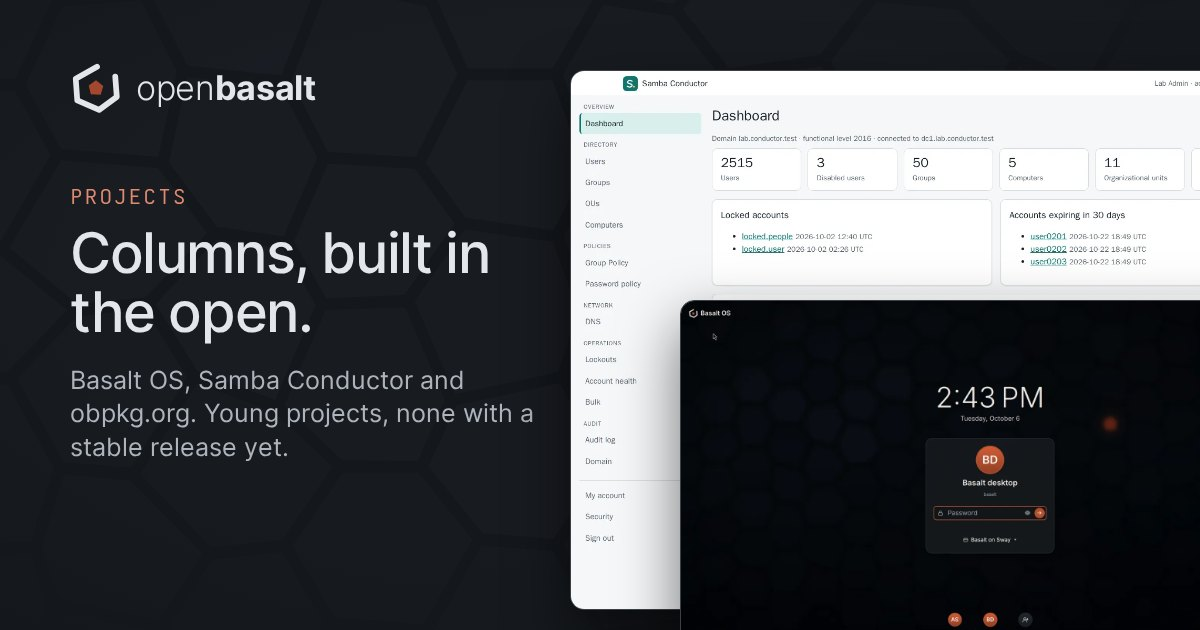
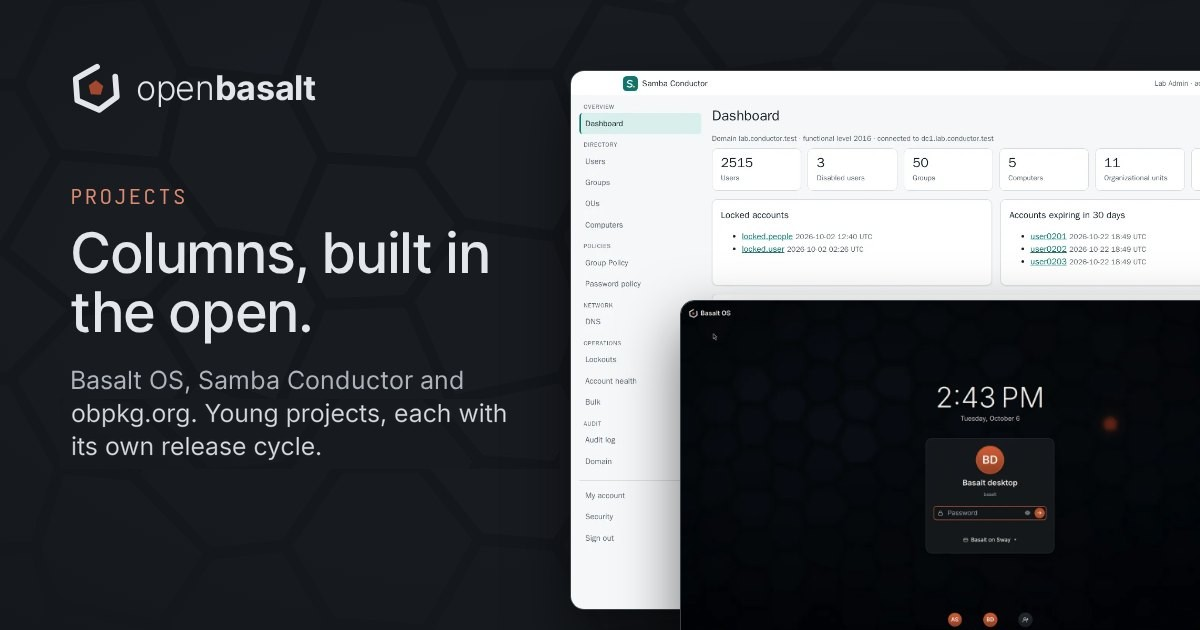
Samba Conductor 0.2.0: released status, install pointers, containers
The project page still said pre-release with no tagged version. Samba
Conductor has shipped 0.1.0, 0.1.1 and 0.2.0, with signed packages in the
stable channels on obpkg.org and signed container images (latest 0.2.0).

- Project page: status banner and section with the releases, release notes
  and verification links, arm64 for APT, conductor-provisioner, a container
  images section, nine repositories, JSON-LD status and version.
- Home, projects and gallery: drop "none has a stable release yet" and the
  pre-release tags for Samba Conductor.
- OG images of the project page and the projects index updated, sitemap
  lastmod bumped.

Claude-Session: https://claude.ai/code/session_01UnMqRceEUND6tegqqQKH1W

Changed region(s): [[0.0617, 0.6333, 0.4317, 0.7238]]

diff --git a/projects/samba-conductor/index.html b/projects/samba-conductor/index.html
@@ -4,7 +4,7 @@
     <meta charset="utf-8" />
     <meta name="viewport" content="width=device-width, initial-scale=1" />
     <title>Samba Conductor: web console for Samba Active Directory, OpenBasalt</title>
-    <meta name="description" content="Samba Conductor runs a Samba Active Directory domain from a web console, with single sign-on through OpenID Connect and SAML, Google Workspace sync, self-service and branding. Open source, Apache-2.0. Pre-release." />
+    <meta name="description" content="Samba Conductor runs a Samba Active Directory domain from a web console, with single sign-on through OpenID Connect and SAML, Google Workspace sync, self-service and branding. Open source, Apache-2.0. Latest release 0.2.0." />
     <link rel="canonical" href="https://openbasalt.org/projects/samba-conductor/" />
     <meta name="theme-color" content="#f6f5f2" media="(prefers-color-scheme: light)" />
     <meta name="theme-color" content="#14171b" media="(prefers-color-scheme: dark)" />
@@ -17,19 +17,19 @@
     <meta property="og:site_name" content="OpenBasalt" />
     <meta property="og:locale" content="en_US" />
     <meta property="og:title" content="Samba Conductor: Samba Active Directory, run from a web console" />
-    <meta property="og:description" content="Administration, single sign-on with OIDC and SAML, Google Workspace sync and self-service for Samba AD. Open source, pre-release, packages for Debian, Ubuntu, Fedora and Basalt OS." />
+    <meta property="og:description" content="Administration, single sign-on with OIDC and SAML, Google Workspace sync and self-service for Samba AD. Open source, release 0.2.0, signed packages for Debian, Ubuntu, Fedora and Basalt OS, and container images." />
     <meta property="og:url" content="https://openbasalt.org/projects/samba-conductor/" />
-    <meta property="og:image" content="https://openbasalt.org/assets/projects/samba-conductor/og.jpg" />
+    <meta property="og:image" content="https://openbasalt.org/assets/projects/samba-conductor/og.jpg?v=2" />
     <meta property="og:image:type" content="image/jpeg" />
     <meta property="og:image:width" content="1200" />
     <meta property="og:image:height" content="630" />
-    <meta property="og:image:alt" content="Samba Conductor, an OpenBasalt project: the dashboard and a change preview of a test domain, marked pre-release." />
+    <meta property="og:image:alt" content="Samba Conductor, an OpenBasalt project: the dashboard and a change preview of a test domain, marked release 0.2.0." />
     <meta name="twitter:card" content="summary_large_image" />
     <meta name="twitter:site" content="@openbasalt" />
     <meta name="twitter:title" content="Samba Conductor: Samba Active Directory, run from a web console" />
-    <meta name="twitter:description" content="Administration, single sign-on with OIDC and SAML, Google Workspace sync and self-service for Samba AD. Open source, pre-release, packages for Debian, Ubuntu, Fedora and Basalt OS." />
-    <meta name="twitter:image" content="https://openbasalt.org/assets/projects/samba-conductor/og.jpg" />
-    <meta name="twitter:image:alt" content="Samba Conductor, an OpenBasalt project: the dashboard and a change preview of a test domain, marked pre-release." />
+    <meta name="twitter:description" content="Administration, single sign-on with OIDC and SAML, Google Workspace sync and self-service for Samba AD. Open source, release 0.2.0, signed packages for Debian, Ubuntu, Fedora and Basalt OS, and container images." />
+    <meta name="twitter:image" content="https://openbasalt.org/assets/projects/samba-conductor/og.jpg?v=2" />
+    <meta name="twitter:image:alt" content="Samba Conductor, an OpenBasalt project: the dashboard and a change preview of a test domain, marked release 0.2.0." />
 
     <link rel="stylesheet" href="../../assets/site.css?v=5" />
     <!-- Umami, self-hosted. No cookies, no cross-site identifier, no personal
@@ -55,7 +55,8 @@
       "url": "https://openbasalt.org/projects/samba-conductor/",
       "applicationCategory": "BusinessApplication",
       "applicationSubCategory": "Directory administration",
-      "creativeWorkStatus": "Pre-release",
+      "creativeWorkStatus": "Released",
+      "softwareVersion": "0.2.0",
       "operatingSystem": "Linux (Debian 13, Ubuntu 24.04 and 26.04, Fedora 44, Basalt OS)",
       "license": "https://www.apache.org/licenses/LICENSE-2.0",
       "isAccessibleForFree": true,
@@ -65,7 +66,7 @@
         "priceCurrency": "USD"
       },
       "installUrl": "https://openbasalt.org/projects/samba-conductor/#install",
-      "image": "https://openbasalt.org/assets/projects/samba-conductor/og.jpg",
+      "image": "https://openbasalt.org/assets/projects/samba-conductor/og.jpg?v=2",
       "screenshot": "https://openbasalt.org/assets/gallery/sc-dashboard-1600.webp",
       "sameAs": [
         "https://github.com/openbasalt/samba-conductor"
@@ -116,11 +117,15 @@
         <div class="preview-banner" role="note">
           <span class="status-dot" aria-hidden="true"></span>
           <div>
-            <p>Pre-release, in its validation phase. There is no tagged version yet.</p>
+            <p>Released. The latest release is 0.2.0, of 2026-10-20.</p>
             <p>
-              Every part is tested end to end in a lab with two domain controllers, and packages are
-              published for testing. Try it on a test domain first, and expect changes before the
-              first release.
+              Samba Conductor is a young project. Every release is tested end to end in a lab with
+              two domain controllers, and its packages and container images are signed. Try it on a
+              test domain first, before a domain people depend on.
+            </p>
+            <p>
+              <a href="https://github.com/openbasalt/samba-conductor/releases">Release notes</a>
+              and <a href="#install">install</a>.
             </p>
           </div>
         </div>
@@ -311,8 +316,27 @@
       <section id="status" class="section" aria-labelledby="status-title">
         <div class="wrap">
           <p class="eyebrow">Status</p>
-          <h2 id="status-title">Pre-release, being validated.</h2>
+          <h2 id="status-title">Released, and still young.</h2>
           <div class="status-grid">
+            <div class="prose">
+              <p class="eyebrow">Releases</p>
+              <ul>
+                <li>
+                  0.2.0, 2026-10-20: conductor and conductor-sync 0.2.0, the new
+                  <a href="https://github.com/openbasalt/samba-conductor-provisioner">conductor-provisioner</a>
+                  0.1.0 for invitations, password reset by e-mail and the Google-first mode, and six
+                  container images.
+                </li>
+                <li>0.1.1: a security update of conductor and conductor-idp.</li>
+                <li>0.1.0, 2026-10-09: the first release.</li>
+              </ul>
+              <p>
+                Each release is a signed GitHub release with packages, SBOMs and signed checksums, also
+                published in the stable channels on obpkg.org. See the
+                <a href="https://github.com/openbasalt/samba-conductor/releases">release notes</a> and
+                <a href="https://github.com/openbasalt/samba-conductor-docs/blob/main/verifying-releases.md">how to verify a release</a>.
+              </p>
+            </div>
             <div class="prose">
               <p class="eyebrow">Checked in the lab</p>
               <ul>
@@ -321,17 +345,15 @@
                 <li>Single sign-on with an independent OpenID Connect client, Grafana and a SAML service provider.</li>
                 <li>Install, upgrade and removal of the packages, including on Basalt OS with SELinux enforcing.</li>
               </ul>
-            </div>
-            <div class="prose">
-              <p class="eyebrow">Not yet</p>
-              <ul>
-                <li>A tagged release. Today's packages are built from the main branches for testing.</li>
-                <li>A stable configuration format: settings may still change between builds.</li>
-              </ul>
               <p>
                 The lab runs are written down in each repository, in the <code>docs/usage-*.md</code>
                 files, with what was set up, run and checked.
               </p>
+              <p class="eyebrow">Good to know</p>
+              <ul>
+                <li>Versions are still 0.x: settings may change between releases, so read the release notes before you upgrade.</li>
+                <li>The domain controller container image is a preview, for labs and evaluation. The packages are the recommended way to run a production domain controller.</li>
+              </ul>
             </div>
           </div>
         </div>
@@ -340,7 +362,7 @@
       <section id="install" class="section" aria-labelledby="install-title">
         <div class="wrap prose">
           <p class="eyebrow">Install</p>
-          <h2 id="install-title">Packages for Debian, Ubuntu, Fedora and Basalt OS.</h2>
+          <h2 id="install-title">Packages for Debian, Ubuntu, Fedora and Basalt OS, and container images.</h2>
           <p>
             Samba Conductor runs on a Samba AD domain controller (Samba 4.19 or later, functional level
             2016), as native systemd services. Packages are signed with the OpenBasalt release key.
@@ -350,7 +372,7 @@
           </p>
 
           <h3>Debian 13 and Ubuntu (APT)</h3>
-          <p>Debian 13, Ubuntu 24.04 and 26.04, amd64.</p>
+          <p>Debian 13, Ubuntu 24.04 and 26.04, amd64 and arm64.</p>
           <pre><code>curl -fsSLo /tmp/openbasalt-release-key.asc https://obpkg.org/keys/openbasalt-release-key.asc
 gpg --show-keys --with-fingerprint /tmp/openbasalt-release-key.asc
 sudo install -d -m 0755 /etc/apt/keyrings
@@ -382,17 +404,31 @@ gpgkey=https://obpkg.org/keys/openbasalt-release-key.asc</code></pre>
             The SELinux policy package comes with it wherever the targeted policy is installed.
           </p>
 
+          <h3>Container images</h3>
+          <p>
+            Six images, built from the same signed packages and signed with cosign: the console, the
+            identity provider, the sync, the backups, the provisioner and a domain controller in
+            preview. They are published on Docker Hub and the GitHub Container Registry with the same
+            digests, with <code>latest</code> at 0.2.0. Compose files are in
+            <a href="https://github.com/openbasalt/samba-conductor-containers">samba-conductor-containers</a>,
+            and the guide to running and verifying them is
+            <a href="https://github.com/openbasalt/samba-conductor-docs/blob/main/containers.md">containers.md</a>.
+          </p>
+          <pre><code>docker pull docker.io/openbasalt/samba-conductor:0.2.0</code></pre>
+
           <h3>Next steps</h3>
           <p>
             The same repositories carry every component: <code>conductor</code>,
-            <code>conductor-idp</code>, <code>conductor-sync</code>, <code>conductor-backup</code> and
-            <code>conductor-files</code>. Nothing is enabled after installing. The web certificate,
+            <code>conductor-idp</code>, <code>conductor-sync</code>, <code>conductor-backup</code>,
+            <code>conductor-provisioner</code> and <code>conductor-files</code>. Nothing is enabled
+            after installing. The web certificate,
             <code>conductor setup</code>, starting the services and enrolling the first administrator
             are in the install guides:
           </p>
           <ul>
             <li><a href="https://github.com/openbasalt/samba-conductor/blob/main/docs/install.md">Install on Debian and Ubuntu</a></li>
             <li><a href="https://github.com/openbasalt/samba-conductor/blob/main/docs/install-fedora.md">Install on Basalt OS and Fedora</a></li>
+            <li><a href="https://github.com/openbasalt/samba-conductor-provisioner/blob/main/docs/install.md">Install conductor-provisioner</a>, for invitations and password reset by e-mail</li>
             <li><a href="https://github.com/openbasalt/samba-conductor-docs/blob/main/verifying-releases.md">Verifying releases and repositories</a></li>
           </ul>
         </div>
@@ -401,7 +437,7 @@ gpgkey=https://obpkg.org/keys/openbasalt-release-key.asc</code></pre>
       <section id="source" class="section" aria-labelledby="source-title">
         <div class="wrap">
           <p class="eyebrow">Source and documentation</p>
-          <h2 id="source-title">Seven repositories, one family.</h2>
+          <h2 id="source-title">Nine repositories, one family.</h2>
           <p class="section-intro">
             Each component lives in its own repository and is deployed on its own. Start with the
             documentation repository: architecture, packaging, release verification and testing.
@@ -411,9 +447,11 @@ gpgkey=https://obpkg.org/keys/openbasalt-release-key.asc</code></pre>
             <li><a href="https://github.com/openbasalt/samba-conductor">openbasalt/samba-conductor</a>: the web console, self-service and the privileged helper</li>
             <li><a href="https://github.com/openbasalt/samba-conductor-idp">openbasalt/samba-conductor-idp</a>: OpenID Connect and SAML 2.0 identity provider</li>
             <li><a href="https://github.com/openbasalt/samba-conductor-sync">openbasalt/samba-conductor-sync</a>: provisioning to Google Workspace</li>
+            <li><a href="https://github.com/openbasalt/samba-conductor-provisioner">openbasalt/samba-conductor-provisioner</a>: delegated directory writes for invitations, password reset by e-mail and the Google-first mode</li>
             <li><a href="https://github.com/openbasalt/samba-conductor-backup">openbasalt/samba-conductor-backup</a>: encrypted backups, restore and restore drills</li>
             <li><a href="https://github.com/openbasalt/samba-conductor-files">openbasalt/samba-conductor-files</a>: shares on domain-member file servers</li>
             <li><a href="https://github.com/openbasalt/samba-conductor-ad">openbasalt/samba-conductor-ad</a>: the Go library for Samba AD access</li>
+            <li><a href="https://github.com/openbasalt/samba-conductor-containers">openbasalt/samba-conductor-containers</a>: the official container images and compose files</li>
           </ul>
         </div>
       </section>

diff --git a/projects/index.html b/projects/index.html
@@ -4,7 +4,7 @@
     <meta charset="utf-8" />
     <meta name="viewport" content="width=device-width, initial-scale=1" />
     <title>Projects: Samba Conductor, Basalt OS and obpkg.org, OpenBasalt</title>
-    <meta name="description" content="The OpenBasalt projects: Samba Conductor, a web console for Samba Active Directory; Basalt OS, a Linux distribution built security and AI first; and obpkg.org, our signed package repositories. All pre-release." />
+    <meta name="description" content="The OpenBasalt projects: Samba Conductor, a web console for Samba Active Directory; Basalt OS, a Linux distribution built security and AI first; and obpkg.org, our signed package repositories. Young projects, each with its own release cycle." />
     <link rel="canonical" href="https://openbasalt.org/projects/" />
     <meta name="theme-color" content="#f6f5f2" media="(prefers-color-scheme: light)" />
     <meta name="theme-color" content="#14171b" media="(prefers-color-scheme: dark)" />
@@ -17,9 +17,9 @@
     <meta property="og:site_name" content="OpenBasalt" />
     <meta property="og:locale" content="en_US" />
     <meta property="og:title" content="OpenBasalt projects: Samba Conductor, Basalt OS and obpkg.org" />
-    <meta property="og:description" content="Independent open infrastructure projects, each with its own repository and release cycle. All young, none with a stable release yet." />
+    <meta property="og:description" content="Independent open infrastructure projects, each with its own repository and release cycle. All young: Samba Conductor has signed releases, Basalt OS is pre-alpha." />
     <meta property="og:url" content="https://openbasalt.org/projects/" />
-    <meta property="og:image" content="https://openbasalt.org/assets/og/projects.jpg" />
+    <meta property="og:image" content="https://openbasalt.org/assets/og/projects.jpg?v=2" />
     <meta property="og:image:type" content="image/jpeg" />
     <meta property="og:image:width" content="1200" />
     <meta property="og:image:height" content="630" />
@@ -27,8 +27,8 @@
     <meta name="twitter:card" content="summary_large_image" />
     <meta name="twitter:site" content="@openbasalt" />
     <meta name="twitter:title" content="OpenBasalt projects: Samba Conductor, Basalt OS and obpkg.org" />
-    <meta name="twitter:description" content="Independent open infrastructure projects, each with its own repository and release cycle. All young, none with a stable release yet." />
-    <meta name="twitter:image" content="https://openbasalt.org/assets/og/projects.jpg" />
+    <meta name="twitter:description" content="Independent open infrastructure projects, each with its own repository and release cycle. All young: Samba Conductor has signed releases, Basalt OS is pre-alpha." />
+    <meta name="twitter:image" content="https://openbasalt.org/assets/og/projects.jpg?v=2" />
     <meta name="twitter:image:alt" content="OpenBasalt projects: the Samba Conductor dashboard and the Basalt OS login screen." />
 
     <link rel="stylesheet" href="../assets/site.css?v=5" />
@@ -104,8 +104,8 @@
         <h1 id="page-title">Columns, built in the open.</h1>
         <p class="lede">
           Each OpenBasalt project lives in its own repository, with its own purpose and release
-          cycle. All of them are young: they work in the source today, and none has a stable release
-          yet.
+          cycle. All of them are young. Samba Conductor has signed releases, the latest 0.2.0; Basalt
+          OS is pre-alpha.
         </p>
       </section>
 
@@ -116,12 +116,13 @@
             <article class="project" aria-labelledby="sc-title">
               <div class="project-head">
                 <h3 id="sc-title"><a href="samba-conductor/">Samba Conductor</a></h3>
-                <span class="tag">Pre-release</span>
+                <span class="tag">Release 0.2.0</span>
               </div>
               <p>
                 A Samba Active Directory domain run from a web console, with single sign-on through
                 OpenID Connect and SAML, Google Workspace sync, a self-service portal, encrypted
-                backups and file servers. Packages for Debian, Ubuntu, Fedora and Basalt OS.
+                backups and file servers. Signed packages for Debian, Ubuntu, Fedora and Basalt OS, and
+                container images.
               </p>
               <div class="actions">
                 <a class="button primary" href="samba-conductor/">Project page</a>

diff --git a/gallery/index.html b/gallery/index.html
@@ -6,7 +6,7 @@
     <title>Gallery: Samba Conductor and Basalt OS, OpenBasalt</title>
     <meta
       name="description"
-      content="Screenshots of Samba Conductor, the web administrator and self-service portal for Samba Active Directory, and a pointer to the Basalt OS gallery. Pre-release preview; it may change."
+      content="Screenshots of Samba Conductor, the web administrator and self-service portal for Samba Active Directory, and a pointer to the Basalt OS gallery. Samba Conductor is released, Basalt OS is pre-alpha; screens may change."
     />
     <link rel="canonical" href="https://openbasalt.org/gallery/" />
     <meta name="theme-color" content="#f6f5f2" media="(prefers-color-scheme: light)" />
@@ -22,7 +22,7 @@
     <meta property="og:title" content="OpenBasalt gallery: Samba Conductor and Basalt OS" />
     <meta
       property="og:description"
-      content="Screenshots of Samba Conductor from our test lab, and a pointer to the Basalt OS gallery. Pre-release preview."
+      content="Screenshots of Samba Conductor from our test lab, and a pointer to the Basalt OS gallery. Screens may change as the projects evolve."
     />
     <meta property="og:url" content="https://openbasalt.org/gallery/" />
     <meta property="og:image" content="https://openbasalt.org/assets/og/gallery.jpg" />
@@ -33,7 +33,7 @@
     <meta name="twitter:card" content="summary_large_image" />
     <meta name="twitter:site" content="@openbasalt" />
     <meta name="twitter:title" content="OpenBasalt gallery: Samba Conductor and Basalt OS" />
-    <meta name="twitter:description" content="Screenshots of Samba Conductor from our test lab, and a pointer to the Basalt OS gallery. Pre-release preview." />
+    <meta name="twitter:description" content="Screenshots of Samba Conductor from our test lab, and a pointer to the Basalt OS gallery. Screens may change as the projects evolve." />
     <meta name="twitter:image" content="https://openbasalt.org/assets/og/gallery.jpg" />
     <meta name="twitter:image:alt" content="OpenBasalt gallery: Samba Conductor single sign-on and branding screens from the test lab, marked preview." />
 
@@ -85,8 +85,8 @@
         <div class="preview-banner" role="note">
           <span class="status-dot" aria-hidden="true"></span>
           <div>
-            <p>Preview. These projects are young and none has a stable release yet. What you see here may change.</p>
-            <p>Samba Conductor is a pre-release; Basalt OS is pre-alpha and not installable yet.</p>
+            <p>Preview. These projects are young, and what you see here may change.</p>
+            <p>Samba Conductor is released, the latest version is 0.2.0; Basalt OS is pre-alpha.</p>
           </div>
         </div>
         <ul class="jump" aria-label="Sections">

diff --git a/index.html b/index.html
@@ -186,7 +186,8 @@
           <h2 id="projects-title">Columns, built in the open.</h2>
           <p class="section-intro">
             Each project lives in its own repository, with its own purpose and release cycle. All of
-            them are young: they work in the source today, and none has a stable release yet.
+            them are young. Samba Conductor has signed releases, the latest 0.2.0; Basalt OS is
+            pre-alpha.
           </p>
           <div class="projects">
             <article id="basalt-os" class="project featured" aria-labelledby="basalt-os-title">
@@ -240,12 +241,13 @@
             <article class="project">
               <div class="project-head">
                 <h3>Samba Conductor</h3>
-                <span class="tag">Pre-release</span>
+                <span class="tag">Release 0.2.0</span>
               </div>
               <p>
                 A web administrator and self-service portal for Samba Active Directory, with
                 encrypted domain backups, file servers and Google Workspace sync as companion
-                projects. RPM packages are in the basalt-tools repository on obpkg.org.
+                projects. Signed packages for Debian, Ubuntu, Fedora and Basalt OS, and container
+                images.
               </p>
               <p><a href="projects/samba-conductor/">About Samba Conductor: features, status and install</a></p>
               <p><a href="https://github.com/openbasalt/samba-conductor">github.com/openbasalt/samba-conductor</a></p>
@@ -258,8 +260,9 @@
               </div>
               <p>
                 The download domain for OpenBasalt packages, all signed with the OpenBasalt release
-                key: basalt for Basalt OS, basalt-tools for our tools on Fedora-based systems, and
-                basalt-testing for packages on their way, opt-in.
+                key: basalt for Basalt OS, basalt-tools for our tools on Fedora-based systems,
+                basalt-testing for packages on their way, opt-in, and an APT repository for Samba
+                Conductor.
               </p>
               <p><a href="https://obpkg.org">obpkg.org</a></p>
             </article>
